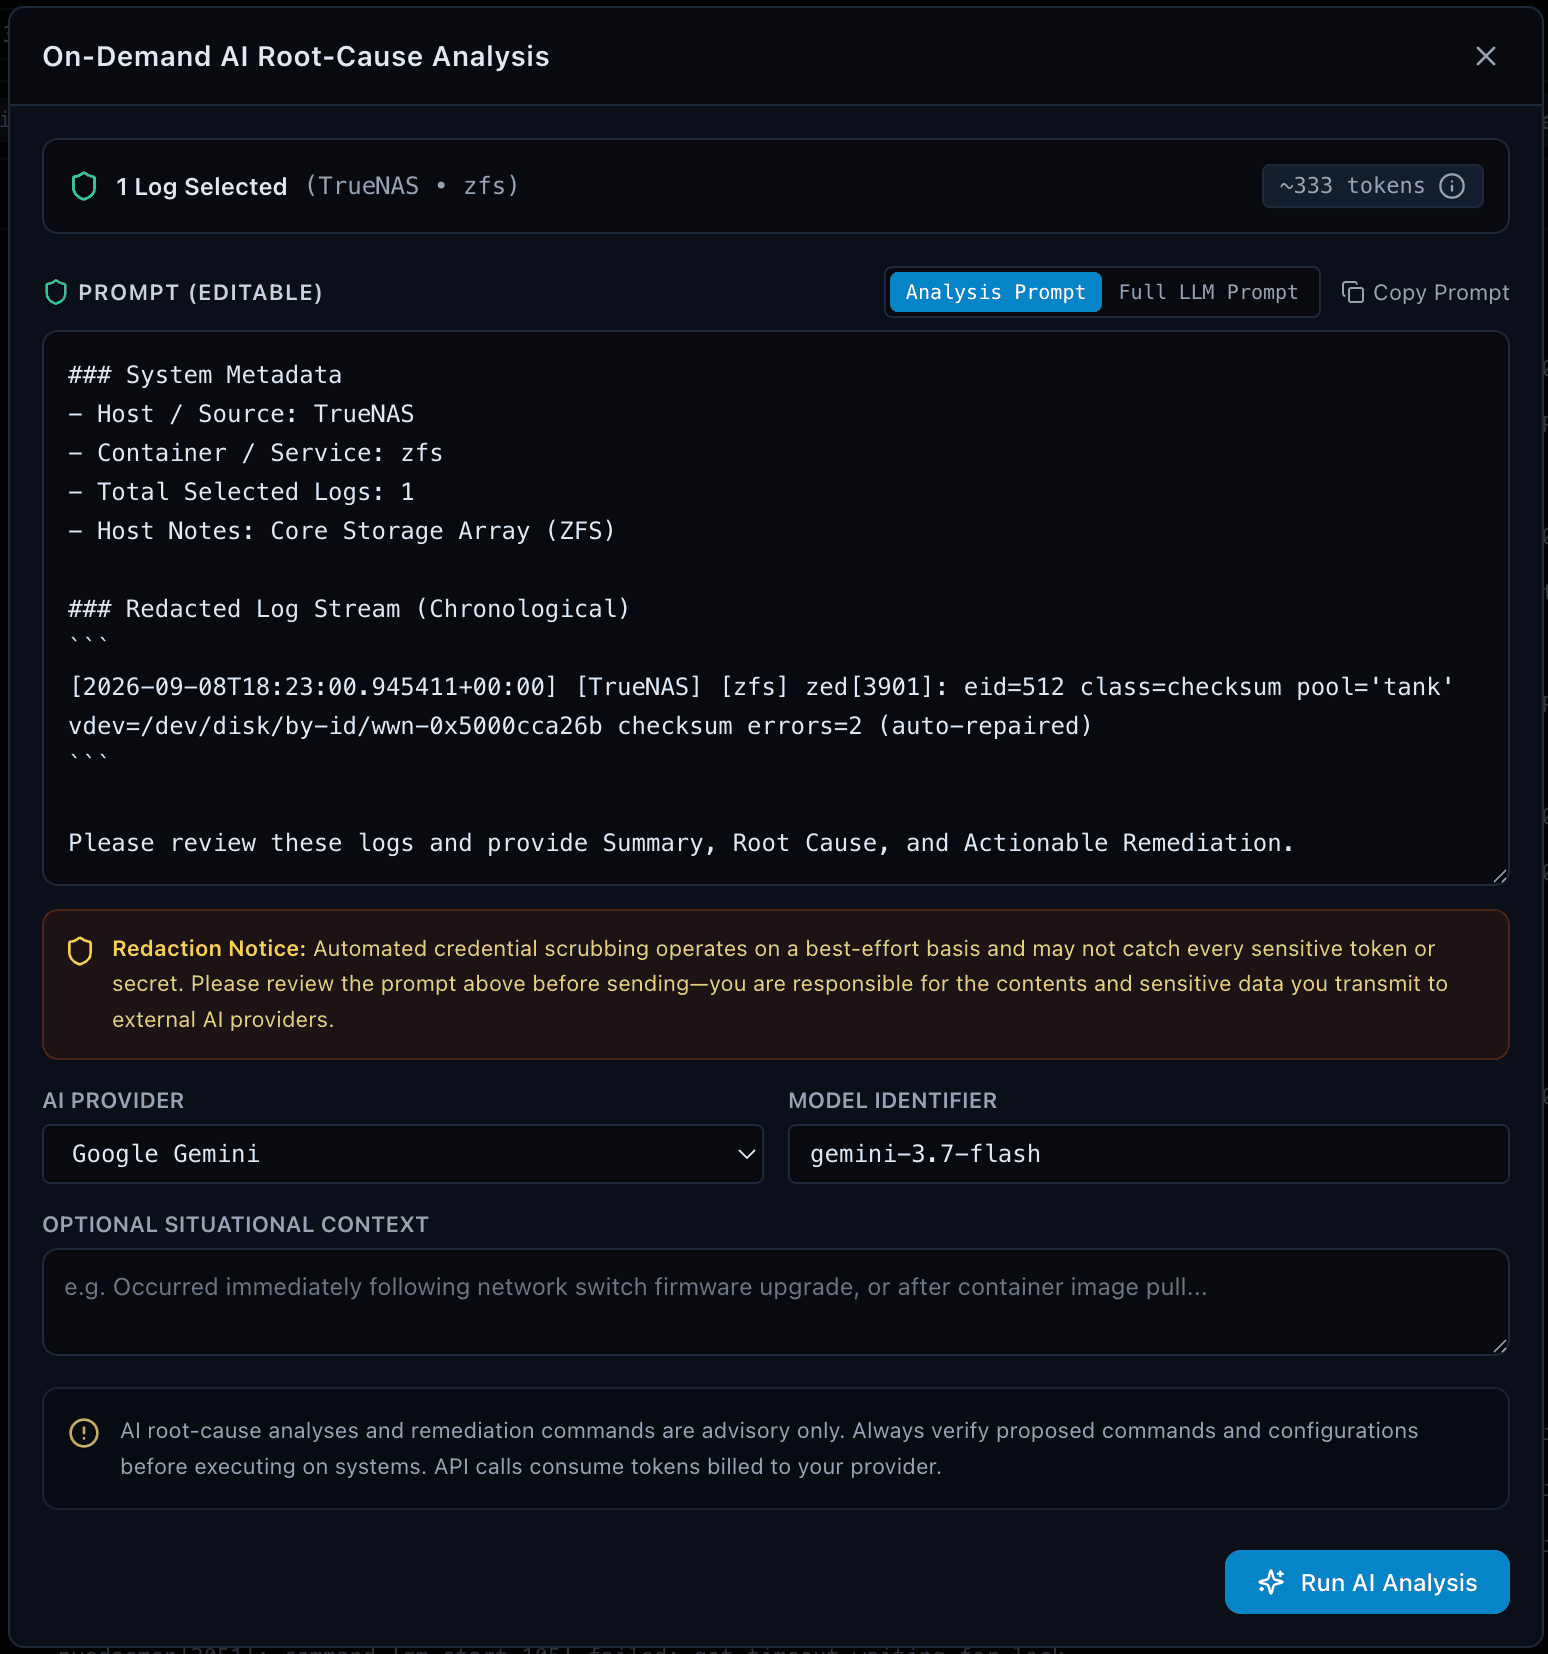
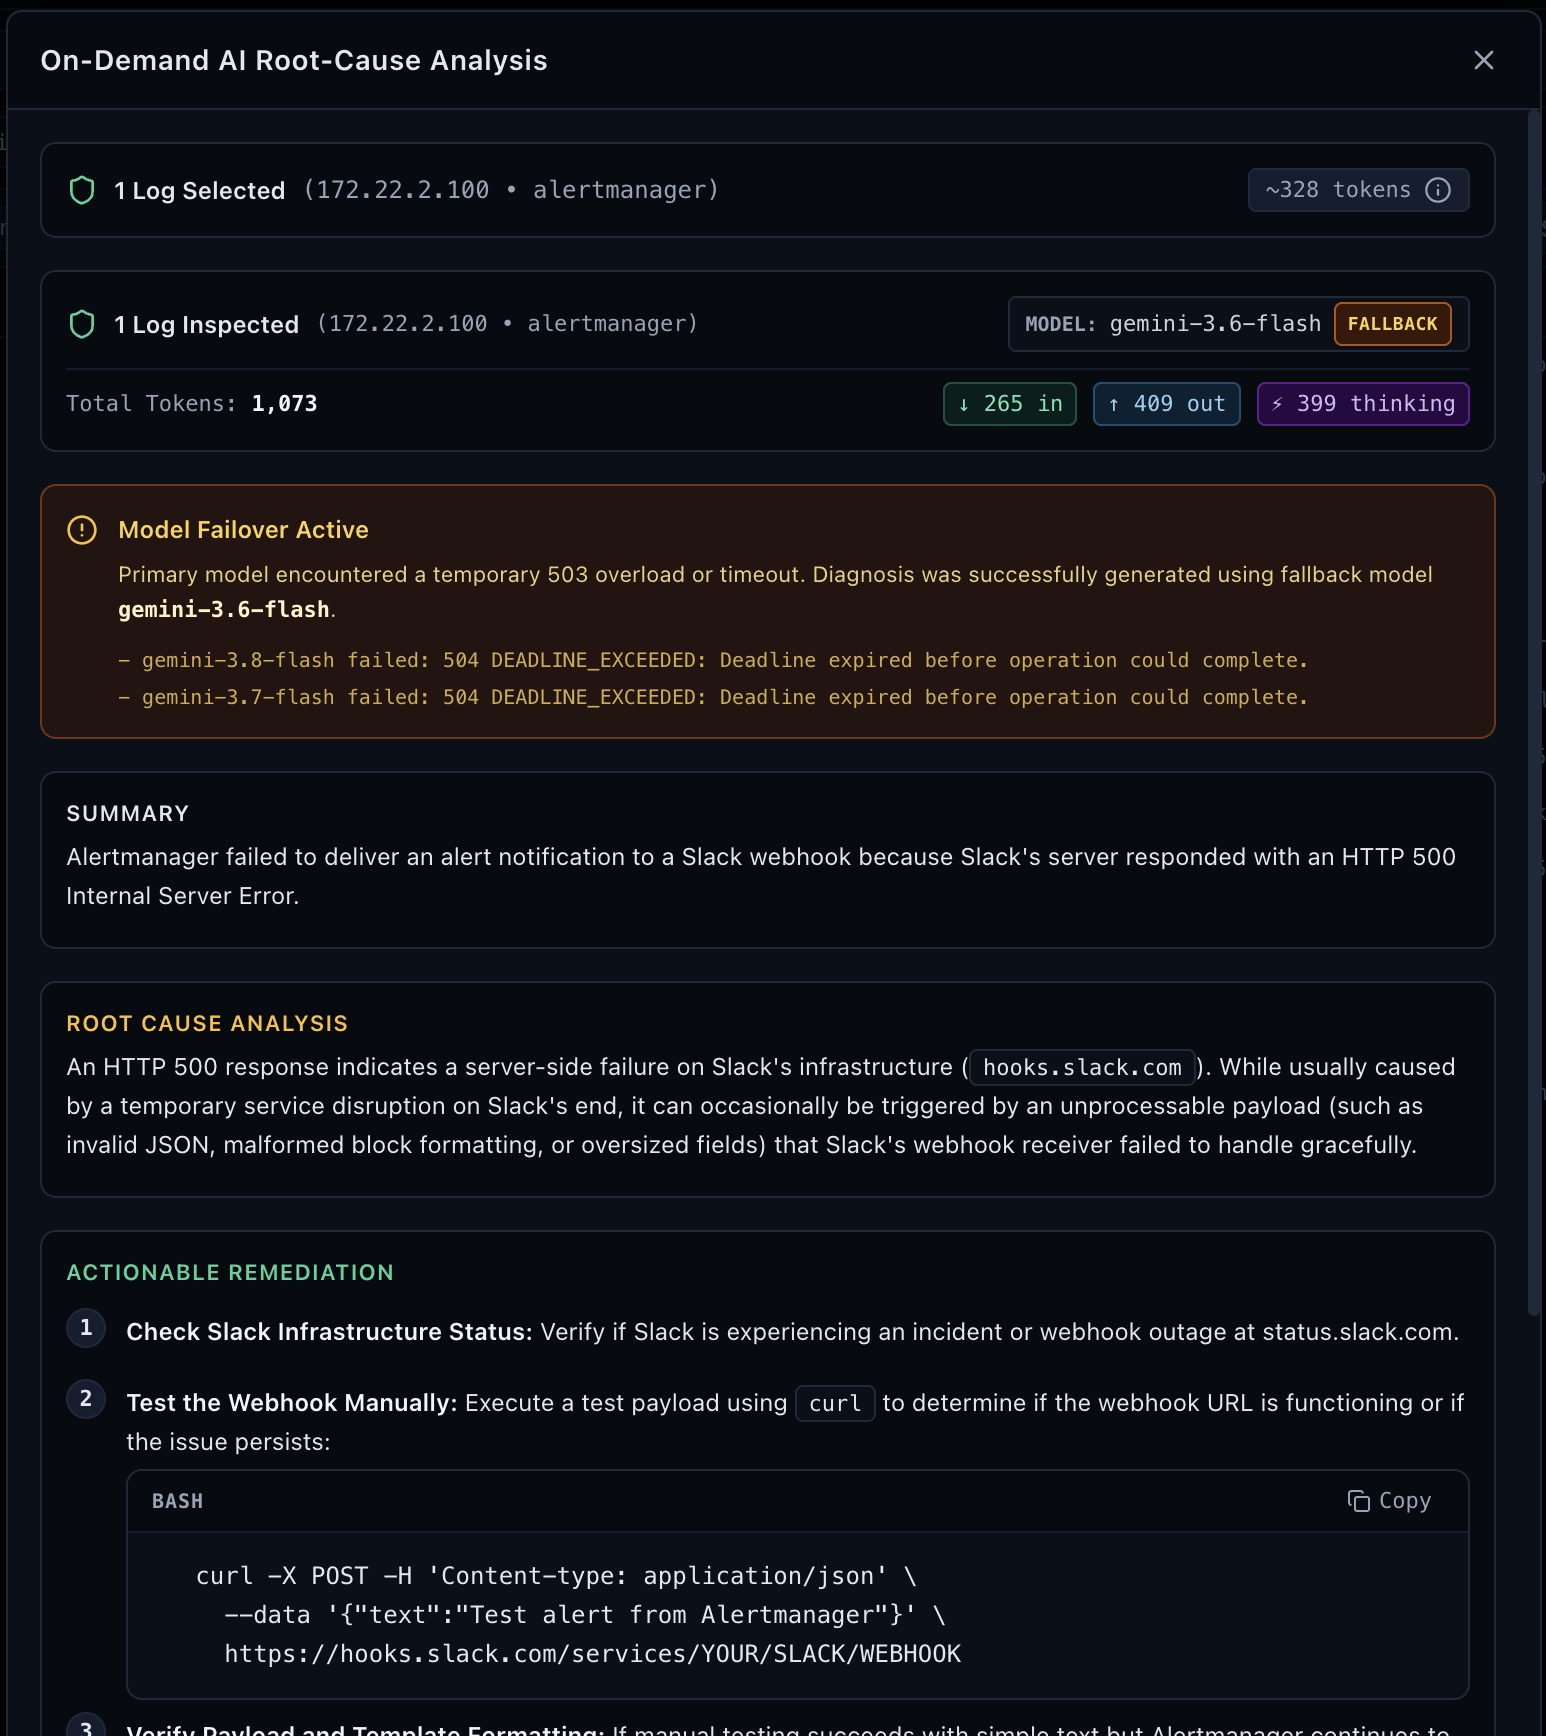
Docs: update ui screenshot gallery

Changed region(s): [[0.0, 0.0, 1.0, 1.0], [0.3415, 0.185, 0.4347, 0.2158]]

diff --git a/README.md b/README.md
@@ -74,20 +74,19 @@ LogShed is a compact, self-hosted log hub designed for home labs and personal se
 
 ## Screenshots
 
-| Live Log Stream | Filtered Search & Facets |
+| Live Log Stream | Filtered Search & Quick Filters |
 | :---: | :---: |
-| <a href="assets/logshed-console-view.png"><img src="assets/logshed-console-view.png" width="450" alt="Live Console View"/></a> | <a href="assets/logshed-console-filtered.png"><img src="assets/logshed-console-filtered.png" width="450" alt="Filtered Search View"/></a> |
-| *Main log stream view* | *Fast multi-host and severity search* |
-
-| Log Detail & Raw Metadata | Surrounding Context Inspection |
-| :---: | :---: |
-| <a href="assets/logshed-log-detail.png"><img src="assets/logshed-log-detail.png" width="450" alt="Log Detail"/></a> | <a href="assets/logshed-log-detail-context.png"><img src="assets/logshed-log-detail-context.png" width="450" alt="Surrounding Log Context"/></a> |
-| *Structured fields and raw payload viewer* | *View preceding & subsequent log lines across hosts* |
-
-| Host Alias Manager | AI Root-Cause Analysis |
-| :---: | :---: |
-| <a href="assets/logshed-alias-manager.png"><img src="assets/logshed-alias-manager.png" width="450" alt="Host Alias Manager"/></a> | <a href="assets/logshed-ai-analysis.png"><img src="assets/logshed-ai-analysis.png" width="450" alt="AI Analysis"/></a> |
-| *Friendly hostname mappings for routers and switches* | *AI incident diagnosis with automatic secret redaction* |
+| <a href="assets/logshed-logstream.png"><img src="assets/logshed-logstream.png" width="450" alt="Live Console View"/></a> | <a href="assets/logshed-filter.png"><img src="assets/logshed-filter.png" width="450" alt="Filtered Search View"/></a> |
+| *Real-time streaming console with smooth scrolling and pause controls* | *Quick multi-host, container, severity, and regex search filters* |
+| **Log Detail & Surrounding Context** | **Host Alias Manager** |
+| <a href="assets/logshed-log-detail.png"><img src="assets/logshed-log-detail.png" width="450" alt="Log Detail"/></a> | <a href="assets/logshed-host-aliases.png"><img src="assets/logshed-host-aliases.png" width="450" alt="Host Alias Manager"/></a> |
+| *Structured field inspection, raw payloads, and adjacent log lines* | *Friendly hostname mappings for routers, switches, and bare-metal nodes* |
+| **Targeted AI Investigation** | **AI Root-Cause Diagnosis** |
+| <a href="assets/logshed-ai-ondemand.png"><img src="assets/logshed-ai-ondemand.png" width="450" alt="Targeted AI Investigation"/></a> | <a href="assets/logshed-ai-analysis.png"><img src="assets/logshed-ai-analysis.png" width="450" alt="AI Root-Cause Diagnosis"/></a> |
+| *Select logs, add context, and ask the AI questions with automatic secret masking* | *Get a clear breakdown of what went wrong with step-by-step fix commands* |
+| **AI Provider & Model Settings** | **Mobile Responsive Console** |
+| <a href="assets/logshed-ai-config.png"><img src="assets/logshed-ai-config.png" width="450" alt="AI Provider & Model Settings"/></a> | <a href="assets/logshed-mobile.png"><img src="assets/logshed-mobile.png" height="467" alt="Mobile Responsive Console"/></a> |
+| *Configure Gemini, OpenAI, or local Ollama with token and rate limits* | *Touch-friendly console interface built for monitoring on phones and tablets* |
 
 ---
 
